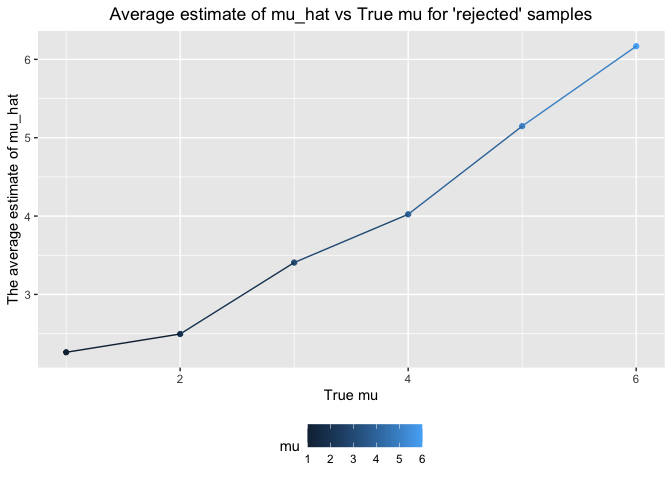
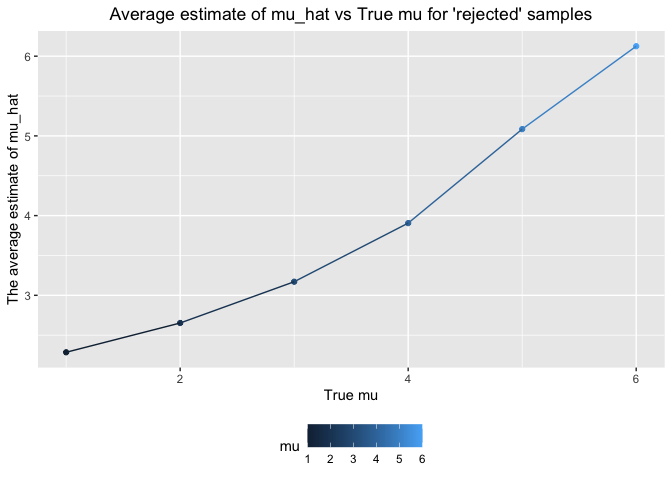
Make dataframe longer other than wider

diff --git a/p8105_hw5_zc2610.md b/p8105_hw5_zc2610.md
@@ -181,13 +181,20 @@ full_df =
     ## Please use `cols = c(data)`
 
 1.  Clean the data format
+2.  Make dataframe longer other than wider
 
 ``` r
 tidy_df = 
   full_df %>% 
   mutate(
     files = str_replace(files, ".csv", ""), # remove csv
-    group = str_sub(files, 1, 3)) # obtain the first three characters
+    group = str_sub(files, 1, 3)) %>%  # obtain the first three characters
+    pivot_longer(
+    week_1:week_8,
+    names_to = "week",
+    values_to = "outcome",
+    names_prefix = "week_") %>% 
+  mutate(week = as.numeric(week))
 ```
 
 # Problem 2
@@ -419,18 +426,18 @@ bind_rows(output)
 ```
 
     ## # A tibble: 50 × 2
-    ##     mu_hat p_value
-    ##      <dbl>   <dbl>
-    ##  1 -0.909    0.292
-    ##  2  0.696    0.568
-    ##  3 -1.45     0.138
-    ##  4 -0.497    0.559
-    ##  5  0.0985   0.889
-    ##  6  0.0552   0.956
-    ##  7 -0.175    0.832
-    ##  8  0.275    0.795
-    ##  9  1.02     0.233
-    ## 10 -0.560    0.449
+    ##    mu_hat p_value
+    ##     <dbl>   <dbl>
+    ##  1 -0.493  0.690 
+    ##  2 -1.69   0.119 
+    ##  3  0.700  0.466 
+    ##  4  0.411  0.677 
+    ##  5  1.49   0.120 
+    ##  6 -2.32   0.0459
+    ##  7  1.30   0.212 
+    ##  8  0.733  0.414 
+    ##  9  0.366  0.691 
+    ## 10  0.709  0.399 
     ## # … with 40 more rows
 
 Repeat the above for mu={1,2,3,4,5,6}
@@ -466,16 +473,16 @@ sim_results
     ## # A tibble: 300 × 4
     ##       mu mu_hat p_value conclusion    
     ##    <dbl>  <dbl>   <dbl> <chr>         
-    ##  1     1  1.93   0.0523 fail to reject
-    ##  2     1  2.43   0.0112 reject        
-    ##  3     1  0.139  0.863  fail to reject
-    ##  4     1  0.651  0.488  fail to reject
-    ##  5     1  1.22   0.190  fail to reject
-    ##  6     1  0.510  0.464  fail to reject
-    ##  7     1  0.469  0.589  fail to reject
-    ##  8     1  1.71   0.0711 fail to reject
-    ##  9     1  1.70   0.0490 reject        
-    ## 10     1  0.151  0.857  fail to reject
+    ##  1     1  1.37  0.118   fail to reject
+    ##  2     1  0.507 0.631   fail to reject
+    ##  3     1 -0.665 0.480   fail to reject
+    ##  4     1  1.33  0.195   fail to reject
+    ##  5     1 -0.439 0.643   fail to reject
+    ##  6     1 -0.832 0.269   fail to reject
+    ##  7     1  0.570 0.625   fail to reject
+    ##  8     1  2.49  0.0112  reject        
+    ##  9     1  1.10  0.224   fail to reject
+    ## 10     1  3.33  0.00186 reject        
     ## # … with 290 more rows
 
 1.  Count the number of total conclusions with each true mu
